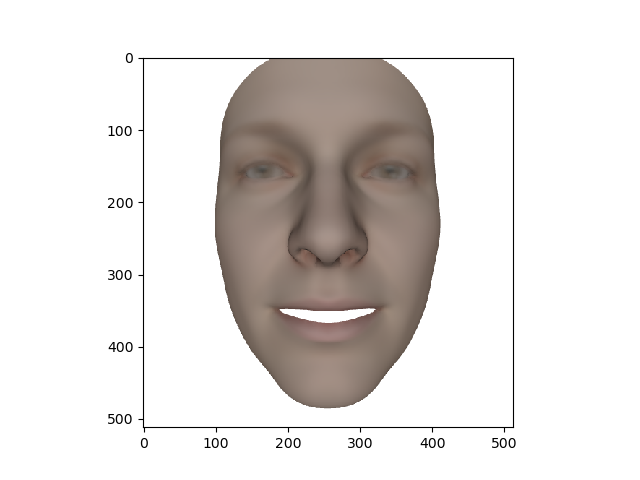
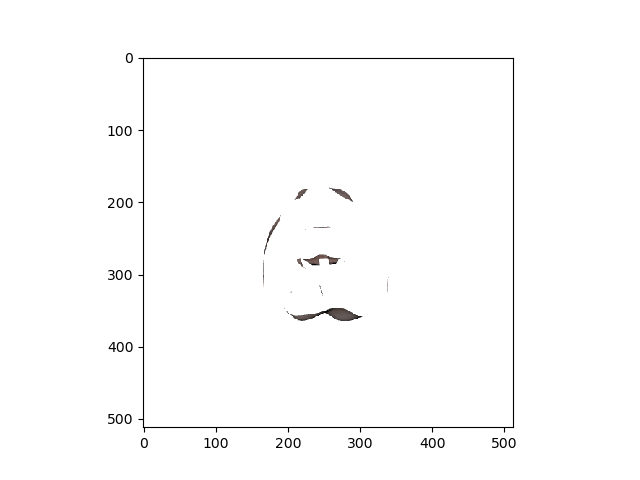
Texture exercise finished, however, 3d reconstruction buggy

Changed region(s): [[0.3125, 0.125, 0.6875, 0.875]]

diff --git a/Assignment_3/latent_param_est.py b/Assignment_3/latent_param_est.py
@@ -96,7 +96,8 @@ class EnergyMin(nn.Module):
         self.delta = nn.Parameter(torch.zeros(shape_e))
         T = torch.eye(4)
         T[2, 3] = -500
-        T[1, 1] = -1
+        # does it help to rotate 180 degrees?
+        # T[1, 1] = -1
         self.T = nn.Parameter(T)
 
         self.mu_shape = torch.from_numpy(mean_shape)
@@ -114,7 +115,6 @@ class EnergyMin(nn.Module):
         g = torch.from_numpy(g).float()
 
         # p vector where the batch is expected to be in the first axis
-
         p3d = self.basis_shape @ (self.alpha * self.sigma_shape) \
               + self.basis_expr @ (self.delta * self.sigma_expr)
 
@@ -129,22 +129,27 @@ class EnergyMin(nn.Module):
         return loss
 
 
-def normalize_points(points):
+def normalize_points(points, given_min_max=None):
     npoints = points.shape[0]
     norm_points = np.zeros((0, npoints))
-    min_max = []
 
-    for i in np.arange(points.shape[1]):
-        _min, _max = np.min(points[:, i]), np.max(points[:, i])
-        norm_coords = (points[:, i] - _min) / (_max - _min)
-        norm_points = np.append(norm_points, norm_coords.reshape((1, npoints)), axis=0)
-        min_max.append((_min, _max))
+    if given_min_max is None:
+        min_max = []
+        for i in np.arange(points.shape[1]):
+            _min, _max = np.min(points[:, i]), np.max(points[:, i])
+            norm_coords = (points[:, i] - _min) / (_max - _min)
+            norm_points = np.append(norm_points, norm_coords.reshape((1, npoints)), axis=0)
+            min_max.append((_min, _max))
 
-    return norm_points.T, min_max
+        return norm_points.T, min_max
 
-    # m_points = (points - np.min(points))
-    # m = np.max(np.abs(m_points)) / 2
-    # return m_points / m
+    else:
+        for i in np.arange(points.shape[1]):
+            _min, _max = given_min_max[i]
+            norm_coords = (points[:, i] - _min) / (_max - _min)
+            norm_points = np.append(norm_points, norm_coords.reshape((1, npoints)), axis=0)
+
+        return norm_points.T, given_min_max
 
 
 def denormalize_points(points, min_max):
@@ -157,6 +162,33 @@ def denormalize_points(points, min_max):
         denorm_points = np.append(denorm_points, norm_coords.reshape((1, npoints)), axis=0)
 
     return denorm_points.T
+
+
+def find_corresponding_texture(points, image):
+    im_height, im_width, _ = image.shape
+
+    new_texture = np.zeros((0, 3))
+    out_of_bounds = []
+
+    for i, point in enumerate(points):
+        x, y = point[0] + 1e-2, point[1] + 1e-2
+        if y < 0 or y > im_height or x < 0 or x > im_width:
+            # Save indices of points that are outside the image, such that we may delete those later
+            out_of_bounds.append(i)
+            continue
+        x_low, x_high = int(np.floor(x)), int(np.ceil(x))
+        y_low, y_high = int(np.floor(y)), int(np.ceil(y))
+        p_x, p_y = (x - x_low) / (x_high - x_low), (y - y_low) / (y_high - y_low)
+
+        color_11, color_12, color_21, color_22 = image[y_low, x_low], image[y_low, x_high], \
+                                                 image[y_high, x_low], image[y_high, x_high]
+
+        hori_color_1, hori_color_2 = color_11 * (1 - p_x) + color_12 * p_x, color_21 * (1 - p_x) + color_22 * p_x
+        final_color = hori_color_1 * (1 - p_y) + hori_color_2 * p_y
+
+        new_texture = np.append(new_texture, final_color.reshape((1, 3)), axis=0)
+
+    return new_texture
 
 
 def main():
@@ -192,6 +224,12 @@ def main():
         basis_expr_fland
     )
 
+    print("P Matrix")
+    print(model.P)
+
+    print("V Matrix")
+    print(model.V)
+
     optimizer = torch.optim.Adam(model.parameters())
 
     points = mean_shape_fland + mean_expr_fland
@@ -199,10 +237,14 @@ def main():
     S = np.concatenate((points, np.ones((npoints, 1))), axis=1)
 
     whole_points = mean_shape + mean_expr
-    whole_S = np.concatenate((whole_points, np.ones((n_whole_points, 1))), axis=1)
+    whole_points_norm, min_max_w_points = normalize_points(whole_points, min_max_points)
+    whole_S = np.concatenate((whole_points_norm, np.ones((n_whole_points, 1))), axis=1)
+
+    whole_S_plot = np.concatenate((whole_points, np.ones((n_whole_points, 1))), axis=1)
 
     # Loading the target image
     img = dlib.load_rgb_image("faces/dan.jpg")
+    # img = dlib.load_rgb_image("faces/surprise.png")
     detector = dlib.get_frontal_face_detector()
     predictor = dlib.shape_predictor("Data/shape_predictor_68_face_landmarks.dat")
     dets = detector(img, 1)
@@ -219,34 +261,39 @@ def main():
     p = torch.from_numpy(S).float()
     whole_p = torch.from_numpy(whole_S).float()
 
+    whole_p_plot = torch.from_numpy(whole_S_plot).float()
+
     # p vector where the batch is expected to be in the first axis
     p3d = model.basis_shape @ (model.alpha * model.sigma_shape) \
           + model.basis_expr @ (model.delta * model.sigma_expr)
     p3d = p + torch.cat((p3d, torch.zeros(68, 1)), dim=1)
 
     # All alpha and gamma applied on all 3d points
-    whole_p3d = torch.from_numpy(basis_shape).float() @ (model.alpha * model.sigma_shape) \
-                + torch.from_numpy(basis_expr).float() @ (model.delta * model.sigma_expr)
-    whole_p3d = whole_p + torch.cat((whole_p3d, torch.zeros(n_whole_points, 1)), dim=1)
+    whole_p3d_base = torch.from_numpy(basis_shape).float() @ (model.alpha * model.sigma_shape) \
+                     + torch.from_numpy(basis_expr).float() @ (model.delta * model.sigma_expr)
+    whole_p3d = whole_p + torch.cat((whole_p3d_base, torch.zeros(n_whole_points, 1)), dim=1)
 
-    # # Projection
+    whole_p3d_plot = whole_p_plot + torch.cat((whole_p3d_base, torch.zeros(n_whole_points, 1)), dim=1)
+
+    # Projection
     p2d = (p3d @ model.V @ model.P @ model.T)[:, :2]
     p2d = denormalize_points(p2d.detach().numpy(), min_max_gt)
 
-    # p2d = (p3d @ model.T)[:, :2]
+    # projection all points
+    whole_p2d = (whole_p3d @ model.V @ model.P @ model.T)[:, :2]
+    whole_p2d = denormalize_points(whole_p2d.detach().numpy()[:, :2], min_max_gt)
+    # Exercise 5
+    new_texture = find_corresponding_texture(whole_p2d, img)
 
-    # p2d = (whole_p3d @ model.V @ model.P @ model.T)[:, :2][fland]
+    # whole_p3d = (whole_p3d @ model.V @ model.P @ model.T)[:, :3]
+    # whole_p3d = denormalize_points(whole_p3d.detach().numpy()[:, :3], min_max_w_points)
 
-    x_1 = p2d[:, 0]
-    y_1 = p2d[:, 1]
+    x_1, y_1 = p2d[:, 0], p2d[:, 1]
+    x_2, y_2 = ground_truth[:, 0], ground_truth[:, 1]
 
-    x_2 = ground_truth[:, 0]
-    y_2 = ground_truth[:, 1]
-
-    im = plt.imread("faces/dan.jpg")
-    implot = plt.imshow(im)
-    plt.scatter(x_1, y_1, color="b")
-    plt.scatter(x_2, y_2, color="r")
+    plt.imshow(img)
+    plt.scatter(x_1, y_1, color="b", s=3)
+    plt.scatter(x_2, y_2, color="r", s=3)
     plt.show()
 
     # x = whole_p3d[:, 0].detach().numpy()
@@ -258,15 +305,16 @@ def main():
     # plt.show()
 
     mesh = trimesh.base.Trimesh(
-        vertices=whole_p3d.detach().numpy()[:, :3],
+        vertices=whole_p3d_plot.detach().numpy()[:, :3],
         faces=triangles,
-        vertex_colors=mean_tex
+        vertex_colors=new_texture
     )
-    color, depth = render_mesh(mesh)
-    plt.imshow(color)
+    # color, depth = render_mesh(mesh)
+    # plt.imshow(color)
+    mesh.show()
 
-    plt.savefig("sampled_faces.png")
-    plt.show()
+    # plt.savefig("sampled_faces.png")
+    # plt.show()
 
     # TODO: estimate mapping that it aligns with image
     # TODO: Then exercise 5 should be quite straight forward
